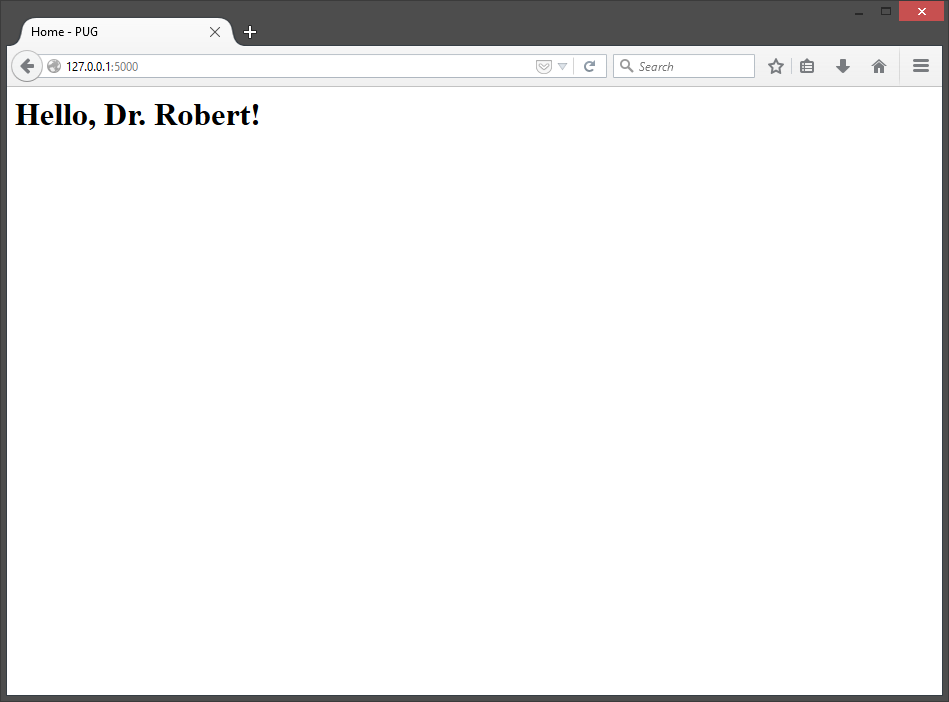
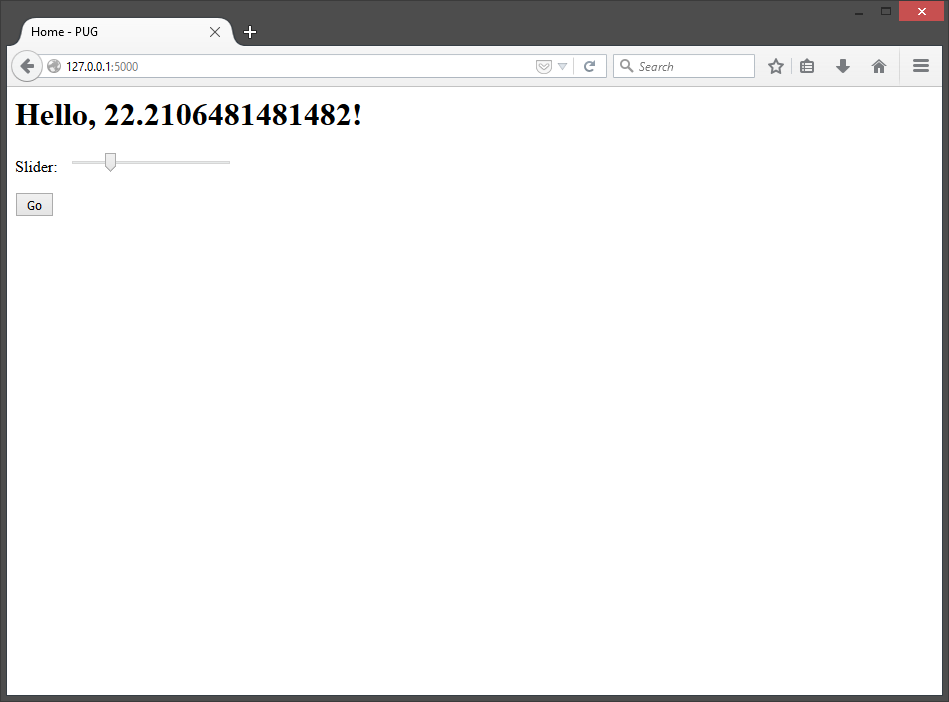
Flask-WTF HTML5 Slider input

Changed region(s): [[0.0917, 0.1496, 0.3973, 0.1795], [0.0, 0.2094, 0.0611, 0.3291], [0.0917, 0.2094, 0.1222, 0.2393]]

diff --git a/app/templates/index.html b/app/templates/index.html
@@ -8,5 +8,9 @@
   </head>
   <body>
       <h1>Hello, {{ user.nickname }}!</h1>
+      <form method="POST" action="/">
+          <p>{{ form.my_slider.label }}: {{ form.my_slider }}</p>
+          <input type="submit" value="Go">
+      </form>
   </body>
 </html>

diff --git a/app/views.py b/app/views.py
@@ -1,15 +1,19 @@
-from flask import render_template
+from flask import render_template, request
+from flask_wtf import Form
+from wtforms.fields.html5 import DecimalRangeField
 from app import app
 
-@app.route('/post/<int:post_id>')
-def show_post(post_id):
-    # show the post with the given id, the id is an integer
-    return 'Post %d' % post_id
+class MyForm(Form):
+    my_slider = DecimalRangeField('Slider')
 
-@app.route('/<username>')
-@app.route('/index/<username>')
-def index(username):
-    user = {'nickname': username}
+@app.route('/', methods=('GET', 'POST'))
+def index():
+    form = MyForm()
+    user = {'nickname': 'Dr. Robert'}
+    if request.method == 'POST':
+        value = request.form['my_slider']
+        user['nickname'] = value
     return render_template('index.html',
                            title='Home',
-                           user=user)
+                           user=user,
+                           form=form)

diff --git a/app/__init__.py b/app/__init__.py
@@ -1,4 +1,5 @@
 from flask import Flask
 
 app = Flask(__name__)
+app.config.from_object('config')
 from app import views

diff --git a/config.py b/config.py
@@ -1,0 +1,2 @@
+WTF_CSRF_ENABLED = True
+SECRET_KEY = 'SHHH!'
